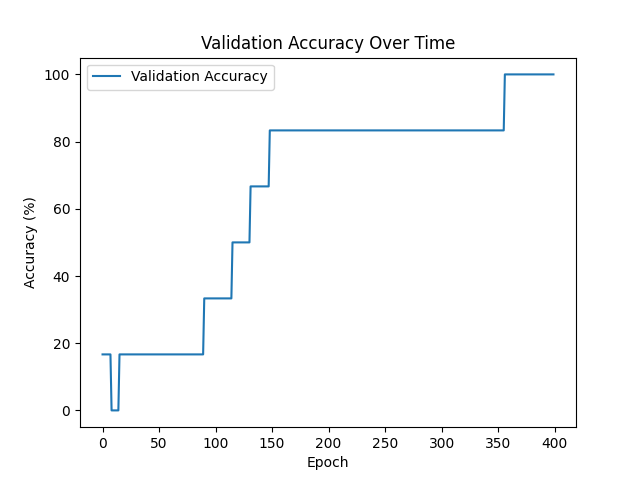
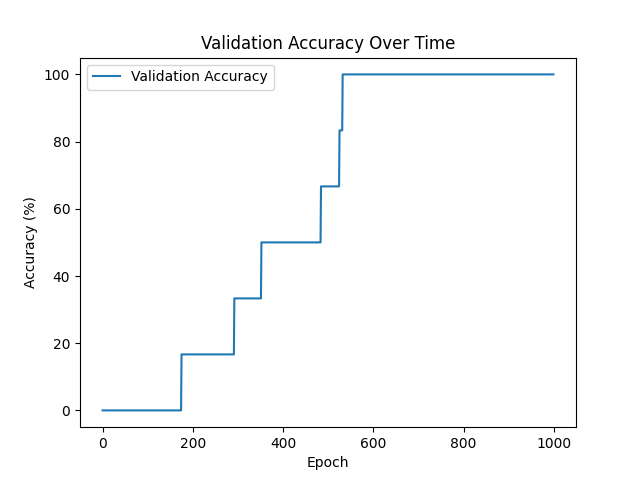
Improved quantization methodology, normalize weights and biases

diff --git a/mlp.py b/mlp.py
@@ -1,22 +1,42 @@
+import numpy as np
 import torch
 import torch.nn as nn
 import torch.nn.functional as F
-import numpy as np
 
 
-def quantize_tensor(tensor, num_decimals):
+def normalize_and_quantize_tensor(tensor, num_decimals):
     """
-    Quantizes the tensor to a specified number of decimal places.
+    Normalizes the tensor to the range [0, 1] and quantizes it to a specified number of decimal places.
     """
+    if tensor.nelement() == 0:
+        return tensor
+
+    # Quantize
     scale = 10.0**num_decimals
-    return torch.round(tensor * scale) / scale
+    tensor = torch.round(tensor * scale) / scale
+
+    # And normalize
+    min_val = torch.min(tensor)
+    tensor -= min_val
+    max_val = torch.max(tensor)
+    if max_val > 0:
+        tensor /= max_val
+
+    return tensor
+
+
+def reapply_quantization_and_normalization(model):
+    for m in model.modules():
+        if hasattr(m, "weight"):
+            m.weight.data = normalize_and_quantize_tensor(
+                m.weight.data, model.num_decimals
+            )
+        if hasattr(m, "bias") and m.bias is not None:
+            m.bias.data = normalize_and_quantize_tensor(m.bias.data, model.num_decimals)
 
 
 class MLP(nn.Module):
     def __init__(self, input_size, hidden_sizes, num_classes, num_decimals=None):
-        """
-        Initialize the MLP model with optional weight and bias quantization.
-        """
         super(MLP, self).__init__()
         self.num_decimals = num_decimals
         layers = []
@@ -31,25 +51,22 @@ class MLP(nn.Module):
             self.apply(self.quantize_weights)
 
     def quantize_weights(self, m):
-        """
-        Applies quantization to the weights and biases of the model's layers.
-        """
         if hasattr(m, "weight"):
-            m.weight.data = quantize_tensor(m.weight.data, self.num_decimals)
+            m.weight.data = normalize_and_quantize_tensor(
+                m.weight.data, self.num_decimals
+            )
         if hasattr(m, "bias") and m.bias is not None:
-            m.bias.data = quantize_tensor(m.bias.data, self.num_decimals)
-    
+            m.bias.data = normalize_and_quantize_tensor(m.bias.data, self.num_decimals)
+
     def forward(self, x):
         """
         Forward pass through the model.
         """
-        print(f"Input size: {x.size()}")
-        for i, layer in enumerate(self.layers):
+        for layer in self.layers:
             x = layer(x)
-            print(f"Layer {i + 1} ({layer.__class__.__name__}): Output size {x.size()}")
         return x
-    
-    def save_weights_biases_to_csv(self, num_decimals=4, prefix='layer'):
+
+    def save_weights_biases_to_csv(self, num_decimals=4, prefix="layer"):
         for i, layer in enumerate(self.layers):
             if isinstance(layer, nn.Linear):
                 weights = layer.weight.data.cpu().numpy()
@@ -57,8 +74,10 @@ class MLP(nn.Module):
                 weights_file = f"{prefix}_{i}_weights.csv"
                 biases_file = f"{prefix}_{i}_biases.csv"
                 # Use num_decimals to format the output
-                np.savetxt(weights_file, weights, delimiter=",", fmt=f'%.{num_decimals}f')
-                np.savetxt(biases_file, biases, delimiter=",", fmt=f'%.{num_decimals}f')
+                np.savetxt(
+                    weights_file, weights, delimiter=",", fmt=f"%.{num_decimals}f"
+                )
+                np.savetxt(biases_file, biases, delimiter=",", fmt=f"%.{num_decimals}f")
                 print(f"Saved {weights_file} and {biases_file}")
 
 
@@ -77,6 +96,7 @@ def train(model, criterion, optimizer, train_loader, val_loader, epochs=10):
             loss = criterion(output, target)
             loss.backward()
             optimizer.step()
+            reapply_quantization_and_normalization(model)
             total_loss += loss.item()
 
         epoch_loss = total_loss / len(train_loader)
@@ -108,8 +128,5 @@ def train(model, criterion, optimizer, train_loader, val_loader, epochs=10):
 def predict(model, data):
     model.eval()
     with torch.no_grad():
-        print(f"Input size during inference: {data.size()}")
         output = model(data)
-        prediction = output.argmax(dim=1)
-        print(f"Output size during inference: {prediction.size()}")
-        return prediction
+        return output.argmax(dim=1)

diff --git a/run_mlp.py b/run_mlp.py
@@ -50,7 +50,7 @@ criterion = nn.CrossEntropyLoss()
 optimizer = torch.optim.Adam(model.parameters(), lr=0.001)
 
 train_loss_history, val_loss_history, val_accuracy_history = train(
-    model, criterion, optimizer, train_loader, val_loader, epochs=400
+    model, criterion, optimizer, train_loader, val_loader, epochs=1000
 )
 
 # Save the model state dictionary
@@ -58,7 +58,7 @@ model_path = "trained_model.pth"
 torch.save(model.state_dict(), model_path)
 
 # Save the weights and biases to CSV
-model.load_state_dict(torch.load(model_path, map_location=torch.device('cpu')))
+model.load_state_dict(torch.load(model_path, map_location=torch.device("cpu")))
 model.eval()
 model.save_weights_biases_to_csv(num_decimals=4)
 

diff --git a/predict.py b/predict.py
@@ -1,7 +1,8 @@
+import numpy as np
 import torch
+
 from mlp import MLP, predict
 from text_to_matrix import TextMatrixGenerator
-import numpy as np
 
 input_size = 100
 num_classes = 5
@@ -11,7 +12,7 @@ model.load_state_dict(torch.load("trained_model.pth"))
 
 
 generator = TextMatrixGenerator(size=10)
-new_letter = 'B'
+new_letter = "B"
 new_matrix = generator.text_to_matrix(new_letter)
 new_vector = new_matrix.flatten()
 new_X = np.array([new_vector])
